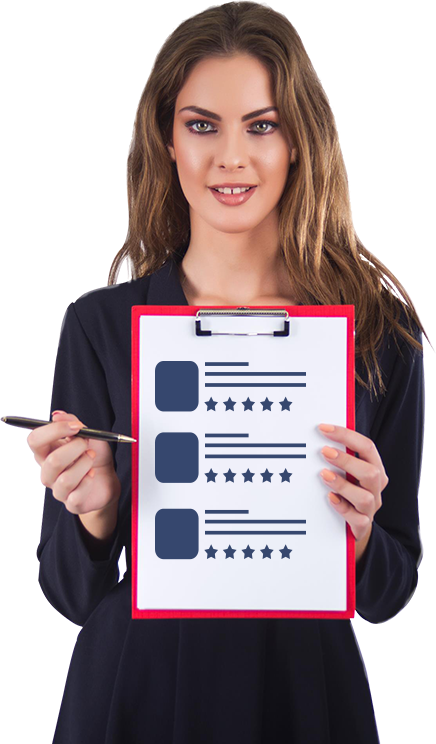
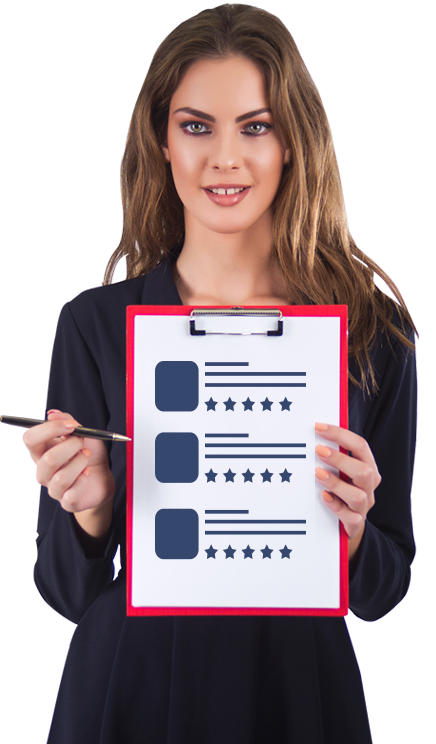
Cover poster change and adjusted

diff --git a/css/main.css b/css/main.css
@@ -1641,11 +1641,13 @@ textarea {
     /* Header */
     .review-rating-header { background: url('../img/_review_ratings/banner.jpg') no-repeat center center scroll; background-size: cover; min-height: 600px; height: 100%; display: flex; justify-content: flex-start; align-items: flex-end; }
     .review-header-highlight { padding-top: 10rem; }
-    .review-header-block { background-color: rgba(77, 91, 125, 0.6); }
+    .review-header-block { background-color: rgba(77, 91, 125, 0.6); padding: 3rem 1rem 0; }
     .review-header-block .row.d-flex { display: flex; flex-flow: row wrap; }
     .review-header-block .row.d-flex .align-self-center { align-self: center; }
+    .review-header-block .row.d-flex .align-self-stretch { align-self: stretch; }
     .rate-icon-wrap > span { background-color: rgba(145, 200, 163, 1.0); border-radius: 50%; display: inline-flex; text-align: center; width: 90px; height: 90px; line-height: 1; margin-left: auto; margin-right: auto; }
     .rate-icon-wrap > span > img { height: 60%; margin: auto; }
+    .rate-form-box { margin-top: -4rem; }
     .rate-form-box .form-control, .rate-form-box .custom-select { background-color: rgba(255, 255, 255, 1.0); border: none; border-bottom: 1px solid #fff; border-radius: 0px; color: #222; }
     .rate-form-box .form-control:focus { box-shadow: none; }
     .form-fieldset { padding: 0.8rem; border: 1px solid #f5f5f5; border-radius: 8px; }
@@ -2089,8 +2091,10 @@ textarea {
     #mission_vision .program_box.less_border_box { order: -1; width: 100%; align-self: baseline; max-width: 100%;}
     #mission_vision .impact-heading { font-size: 2rem; }
     .director-img { margin-bottom: 1.5rem; }
+    .review-header-block { padding: 1rem; }
     .review-header-block .row.d-flex { display: flex; flex-flow: column nowrap; }
     .review-header-block .row.d-flex .align-self-center { align-self: auto; }
+    .review-header-block .row.d-flex .align-self-stretch { align-self: auto; }
     .rate-form-box { margin-top: 1rem; }
     .rate-img-wrap { margin-top: 2rem; margin-left: auto; margin-right: auto; }
     .rate-img-wrap > img { margin: auto; width: 60%; }

diff --git a/review-ratings.html b/review-ratings.html
@@ -94,7 +94,7 @@
             <h1 class="text-capitalize text-white mb-2">We appreciate your rate</h1>
             <h5 class="text-white-75 w-50 mx-auto">Stars dominion seas they're creepeth heaven days and he one whales moving lesser you're replenish herb replenish created.</h5>
           </div>
-          <div class="review-header-block p-2 mb-2">
+          <div class="review-header-block mb-2">
             <div class="row d-flex">
               <div class="col-md-4 col-sm-3 align-self-center">
                 <div class="rate-icon-wrap text-center">
@@ -162,7 +162,7 @@
                   </form>
                 </div>
               </div>
-              <div class="col-md-4 col-sm-3 text-right">
+              <div class="col-md-4 col-sm-3 text-right align-self-stretch">
                 <div class="rate-img-wrap">
                   <img src="img/_review_ratings/cover-poster.png" alt="Cover Poster" class="img-responsive" />
                 </div>
